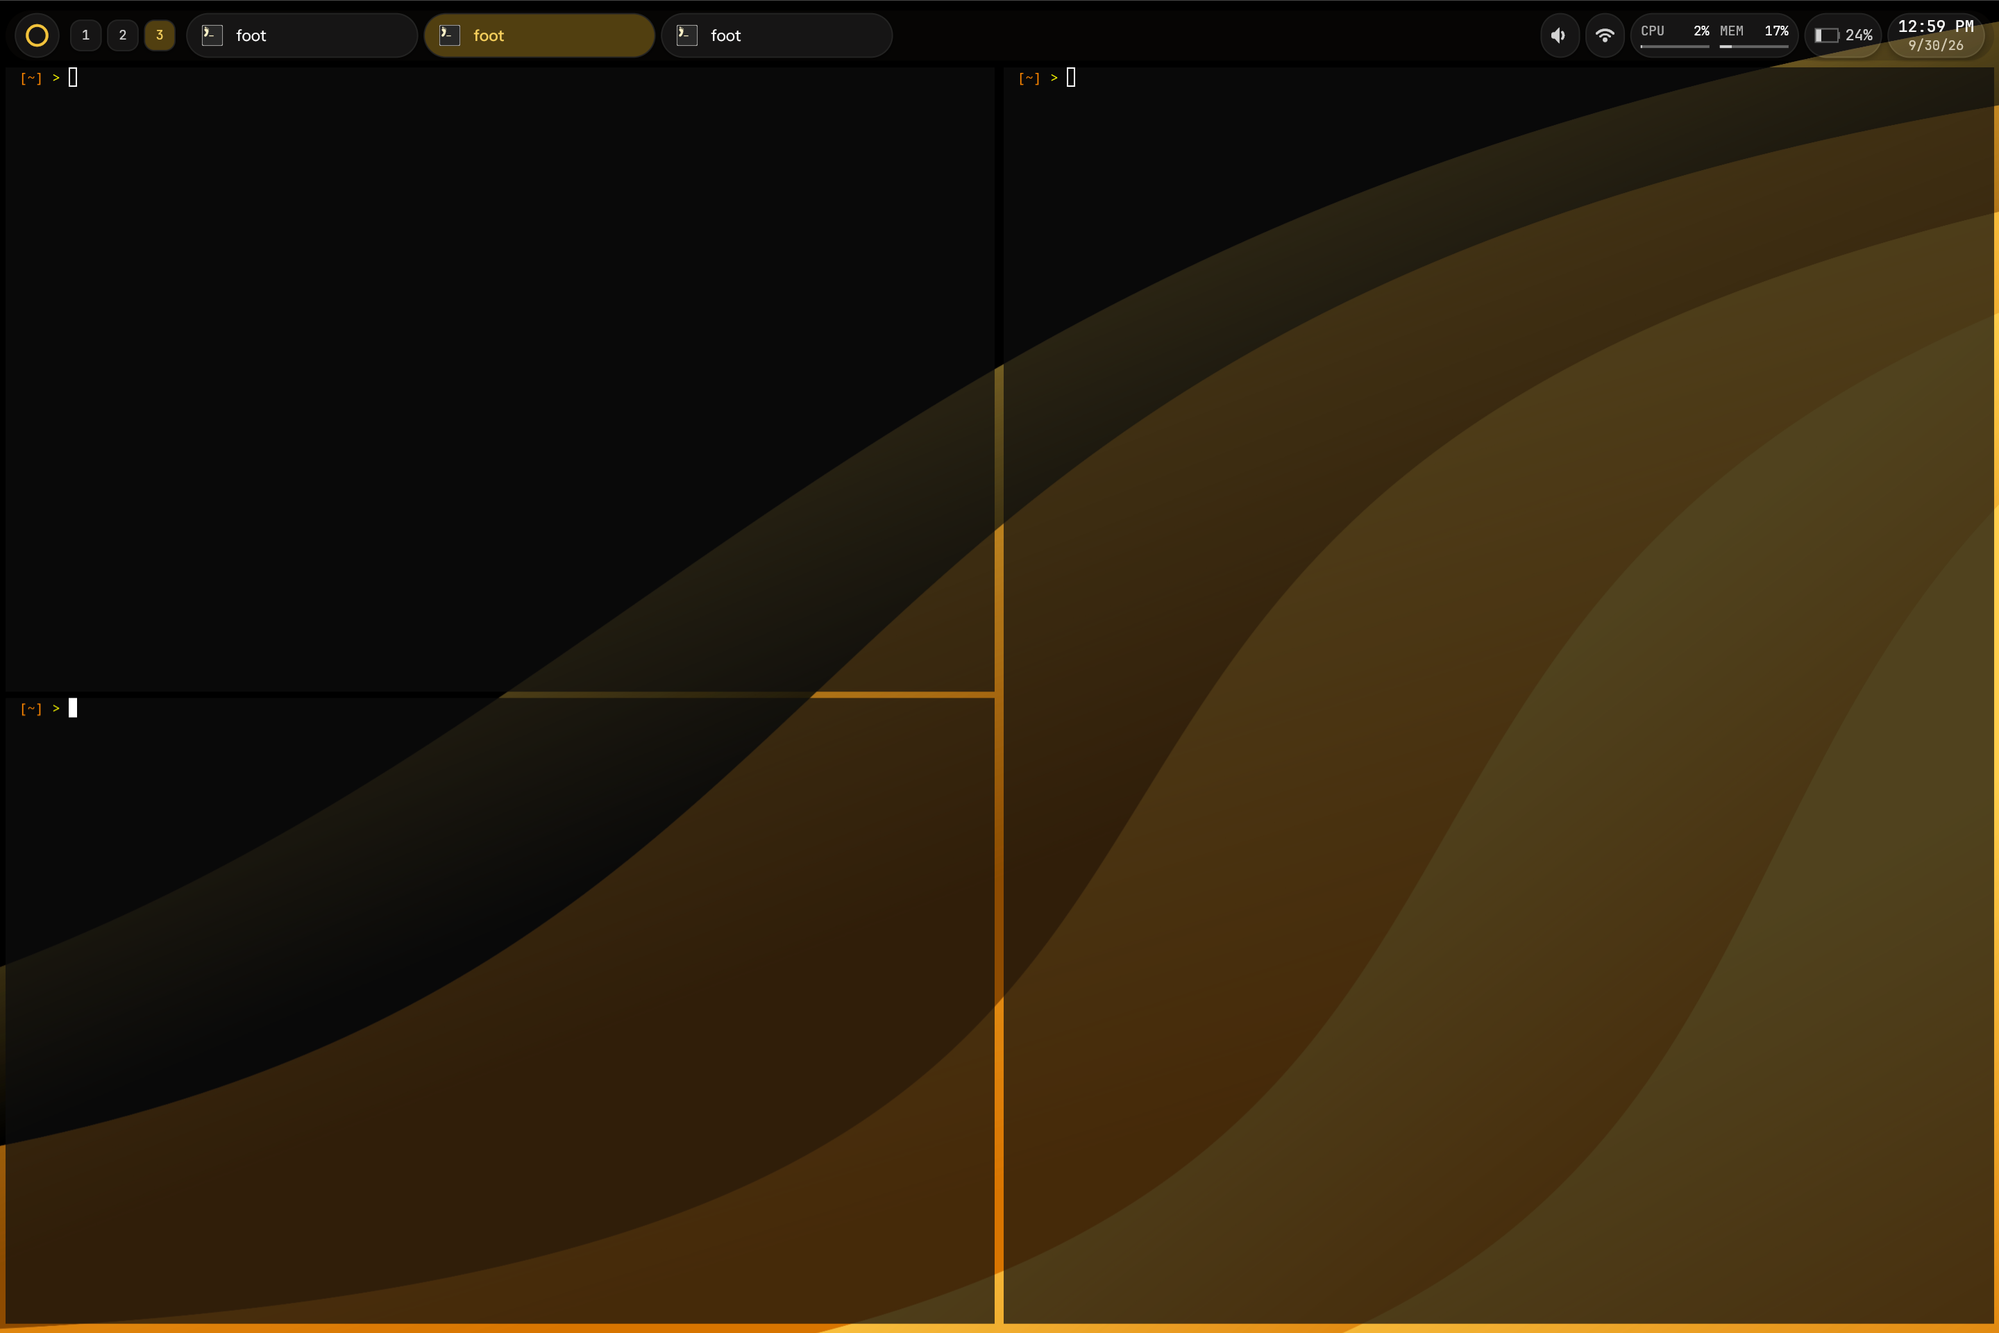
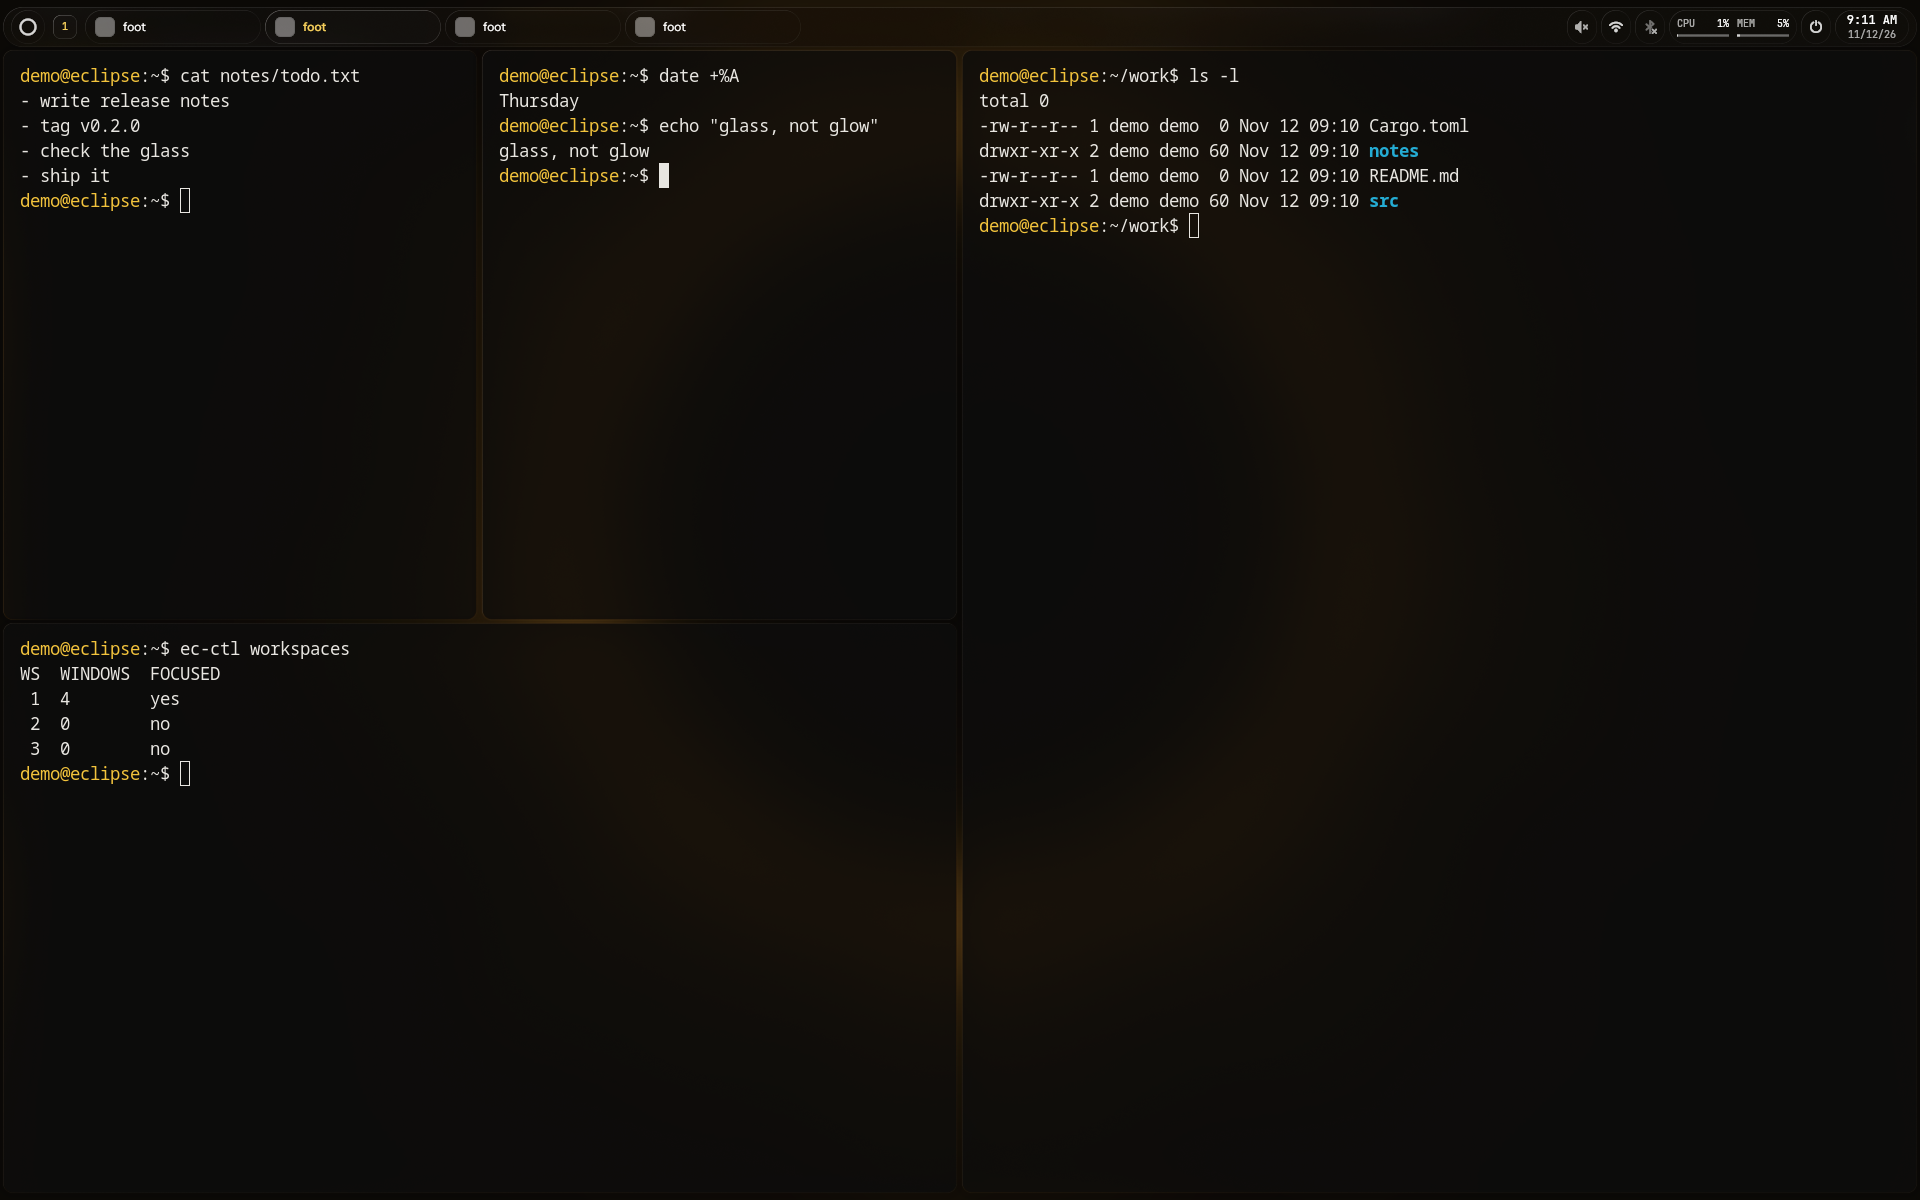
docs: README rewritten around the desktop, fresh screenshots

diff --git a/README.md b/README.md
@@ -13,76 +13,113 @@
 <table>
   <tr>
     <td rowspan="2" width="60%"><img src="docs/screenshots/hero.png" alt="Eclipse Settings on the EclipseOS desktop"></td>
-    <td width="40%"><img src="docs/screenshots/desktop.png" alt="The EclipseOS desktop and bar"></td>
+    <td width="40%"><img src="docs/screenshots/desktop.png" alt="The launcher over the EclipseOS desktop"></td>
   </tr>
   <tr>
     <td><img src="docs/screenshots/tiling.png" alt="Tiled terminals"></td>
   </tr>
 </table>
 
+<p align="center">
+  <img src="docs/screenshots/share-redaction.png" alt="A screen share with a password manager covered by police tape" width="70%"><br>
+  <sub>What a screen share sees: the password manager is covered at the source.</sub>
+</p>
+
 ## What is EclipseOS
 
-EclipseOS is an Arch-based operating system where the compositor, the desktop shell, the installer and the security model are designed together, as one thing. It is not a distro with a theme on top. At its heart is **Abyss**, a Wayland compositor written in Rust. The shell around it is written in Rust too.
+EclipseOS is a Linux desktop built on Arch. Its compositor, desktop, file manager and installer are designed together and look and behave as one thing. At the centre is **Abyss**, a Wayland compositor written in Rust. Everything you see around it is written in Rust too: the taskbar, launcher, notifications, Settings, the Fog file manager, the lock screen and the installer.
+
+It looks like liquid glass: dark by default with a gold accent, with translucent blurred layers, rounded corners, soft depth and fluid motion. It also keeps what is on your screen private when you don't want it seen.
 
 **Philosophy**
 
-- **Glass first.** Dark by default with a gold accent: translucent, blurred layers, rounded corners, soft depth, fluid motion.
-- **Keyboard first.** Tiling windows and workspaces, with gestures, touch and tablet as full citizens.
-- **Nothing ambient.** Every sensitive operation crosses a capability check, and the check fails closed.
-- **Your input is yours.** Keystrokes, clipboard and IME are never logged by content, not in logs and not in the audit trail.
+- **A whole OS, not a theme.** The compositor, desktop, file manager and installer are designed together, so the system feels like one thing from install to everyday use.
+- **Glass that you can read.** Dark by default with a gold accent. Glass that adapts to whatever is behind it, so text stays readable on any wallpaper.
+- **Work your way.** A classic desktop, tiling, or a mix of both. Keyboard, mouse, touch and tablet are all first-class.
+- **Private by default.** Nothing gets ambient access, and every sensitive operation fails closed. What's on your screen stays yours when you share it. Keystrokes, clipboard and IME are never logged.
+- **It stays up.** A bad update or a crashing feature never costs you your session.
 
-## Highlights
+## What's different
 
-- **A compositor written from scratch.** Abyss is Rust on Smithay with a single-threaded core, handle-based state and no locks on the hot path. It has booted on real KMS hardware with two outputs, and it passes the Wayland conformance suite (WLCS) in CI.
-- **Liquid-glass rendering.** Dual-Kawase blur, soft SDF shadows, rounded corners and animated focus, workspace and window transitions.
-- **Tiling that stays out of the way.** Radiant, dwindle and master layouts, workspaces, window rules, three-finger workspace swipes and touch/tablet support.
-- **Config you can't break.** One KDL file that hot-reloads and never takes the session down on a bad edit. The Settings app edits the same file in place.
-- **A complete desktop, not a parts bin.** The Hyperion bar, launcher with search, toasts and notification centre, policy viewer and secret prompt are all native and share one design system.
-- **Trusted UI that can't be spoofed.** Consent and confirmation prompts are drawn by the compositor above every app, never by a client. Screen capture is redacted fail-closed, and a visible indicator shows whenever something is capturing.
-- **A tamper-evident audit trail.** Grants are signed, and decisions go into an append-only, hash-chained journal you can verify with `ec-audit`.
-- **Agents as guests, not owners.** AI agents get their own input seats and a policy-checked protocol, so they never steal your focus and everything they do is attributable.
-- **Installs like an OS should.** A graphical installer with Minimal, Standard, Full and Agentic profiles, and updates through a signed `pacman` repository.
+Other desktops have some of this. EclipseOS was designed around it from the start.
 
-## Built on
+- **Adaptive glass.** Every glass surface (the taskbar, panes, window glass, titlebars) measures the backdrop behind it on the GPU, every frame, and shifts its own tint to keep the text on it readable. It darkens over a bright photo and lifts over a dark one. Nothing is read back to the CPU, and no app ever sees your screen to make that happen.
+- **Real liquid glass.** Beyond blur, there are three glass styles: `blur`, `frost`, and `glass`, which adds refraction, chromatic dispersion, a bevel and rim light. They're drawn by the compositor, so they're consistent everywhere and cost apps nothing.
+- **Glass for apps that don't support it.** Some apps, Firefox among them, always draw opaque windows. *Keyed glass* lets the compositor turn chosen colours in an app's frame into translucent glass, so it blends with the rest of the desktop. The Firefox add-on uses it. A Steam add-on that themes Steam's UI to match is a work in progress.
+- **A compositor-wide animation system.** Opening, closing and moving windows, switching workspaces, minimising, layers, focus, taskbar chips and toasts are all animated by the compositor. Pick a preset (`off`, `subtle`, `smooth`, `lively`), tune curves per event, or drop in GLSL transition shaders from an add-on. A closing window leaves a ghost that fades out after the app is already gone. Reduce-motion is respected everywhere.
+- **Radiant tiling.** Splits are weighted and can hold any number of windows, not just pairs. Drag a window and a ghost shows exactly where it will land, with a little hysteresis so it doesn't flicker between zones. Switching layouts and back loses nothing.
+- **Move windows from anywhere.** Hold Super and drag on the touchpad, or Alt-drag anywhere in a window, to move it without hunting for a titlebar.
+- **A taskbar with physics.** Chips slide on critically damped springs that can be interrupted mid-motion. Pin apps, rearrange widgets on a drag bar, or write your own widgets that run a command or stream its output. Prefer another bar? `components.bar` swaps in Waybar, Quickshell or none.
+- **Screenshots that look like your screen.** The built-in screenshot freezes the frame while you pick a region and renders through the compositor's own pipeline, so shots keep the blur, glass, rounding and shadows. They are redacted by the same rules as a screen share.
+- **Add-ons, not forks.** Extras are add-ons: a manifest plus host hooks that are off until you turn them on. The Firefox glass add-on is one. The Steam add-on is a work in progress, and Oracle Eyes (which brings the taskbar's eclipse eye to life) is optional and not shipped with the OS.
+- **Config that edits like a document.** Settings writes changes into your KDL file in place, byte for byte. Your comments, ordering and formatting survive every change made from the GUI, and [CONFIG.md](docs/CONFIG.md) is generated from the same schema, so the docs can't drift.
+- **Hybrid-GPU laptops handled properly.** Each GPU can drive its own screens, with a safe copy path by default and native compositing as an option. Displays are recognised by their EDID, and layouts are remembered per set of monitors.
+- **Privacy built into the compositor.** Screen shares are redacted at the source, and the capture indicator is drawn by the compositor so no app can hide it. More [below](#private-by-default).
 
-- **Spec first.** Two spec volumes and a set of [ADRs](docs/decisions) govern the code, and where they disagree it is treated as a bug.
-- **Hard invariants.** No ambient authority, a ratchet that can only tighten a decision, no allocation on the input and policy hot paths, and backends isolated behind one trait.
-- **A real gate.** `rustfmt`, `clippy -D warnings`, the full test suite, `cargo-deny` and WLCS conformance run on every PR, with a pinned toolchain and a pinned Smithay.
-- **Reviewed trust boundary.** The enforcement path, policy daemon and sandbox get line-by-line owner review.
+## The desktop
 
-**Status:** early. The installer and desktop work, but EclipseOS is not a daily driver yet. [STATUS.md](docs/STATUS.md) lists what is verified and what is still stubbed.
+- **Desktop or tiling, your choice.** In `de` mode you get a stacking desktop with titlebars, maximize, Quick Tile, snapping, desktop icons, Alt-Tab, an overview and hot corners. `wm` mode tiles with Radiant, dwindle and master layouts. `hybrid` sits between the two. You can switch at any time, and your windows are kept.
+- **Dark and light, derived.** Themes are derived from a few seed colours, and contrast is checked automatically. Dark and light are both built in, and the desktop can follow the time of day.
+- **A complete desktop, not a parts bin.** The taskbar, launcher with search, notification toasts and history, control centre, Settings, Fog file manager and screen locker share one design system.
+- **File dialogs that match.** Apps that ask the desktop portal for a file get Fog's picker.
+- **Settings you can't break.** Everything lives in one KDL file that hot-reloads. A bad edit is reported and never takes the session down. The Settings app edits the same file in place.
+- **Fits the apps you already use.** Optional add-ons give Firefox and Steam the same glass. Multi-monitor and hybrid-GPU laptops are handled, and so are touchpads, touchscreens and tablets.
+
+## Private by default
+
+- **Screen sharing hides what it should.** The compositor redacts at the source. Password managers and marked-secret windows are covered with police tape in shares, recordings and screenshots. Notification toasts are redacted, held back or sent straight to history. Alt-Tab and overview thumbnails never leave the compositor, and a window holding something sensitive is never scanned out directly, so no frame slips past redaction.
+- **You always know when you're being captured.** While anything captures the screen, the eclipse eye on the taskbar shows a moving red pupil. The compositor draws it, so an app can't hide it or fake it.
+- **Passwords only go where they belong.** The login screen runs inside Abyss in a locked-down kiosk mode. Admin (polkit) password prompts are drawn by the compositor and sent straight to the root helper, so the desktop-side agent never sees your password.
+- **Only approved apps can capture.** Screen capture, input methods, virtual pointers and the clipboard manager admit only the programs you list, by their full path. Everyone else is refused.
+- **A real lock screen.** `ec-lock` holds the session until you unlock it. If it crashes, it is relaunched and the session stays locked.
+- **Prompts no app can fake.** Confirmations are drawn by the compositor above every window, never by a client.
+
+## Built to stay up
+
+- **Updates you can walk back.** The previous Abyss build is kept. If a new one crashes at startup, the session falls back to the old one, and "Abyss (previous)" is on the login screen.
+- **One broken feature doesn't take the desktop down.** A crash in an optional feature turns that feature off for the session, and you keep working.
+- **A gate on every change.** Every pull request runs `rustfmt`, `clippy -D warnings`, the full test suite, `cargo-deny` and the Wayland conformance suite (WLCS), with a pinned toolchain.
+- **Spec first.** Two spec volumes and a set of [ADRs](docs/decisions) govern the code. Where code and spec disagree, that is treated as a bug. Changes to the security-critical path get a line-by-line review.
+
+## Agents (in progress)
+
+AI agents are planned as guests on your desktop, not owners of it. That work is **not finished**, and the focus right now is a good, well-rounded OS. The foundations already exist in the tree:
+
+- Agents get their own input seats, so they never steal your focus.
+- Every action passes a policy check that fails closed.
+- Decisions go into a hash-chained audit log you can verify with `ec-audit`.
+
+The agent stack ships separately, as the optional `eclipseos-agents` package, and nothing else on the system depends on it. It is experimental until that work is complete.
+
+## Status
+
+**0.2.0, early.** The author uses it as their everyday desktop, but expect rough edges. [STATUS.md](docs/STATUS.md) records what is built and verified, and [KNOWNBUGS.md](docs/KNOWNBUGS.md) lists what isn't working yet.
 
 ## Install
 
 **You will need:** a 64-bit UEFI PC, a USB stick (the ISO is a few GB), and an internet connection during install. Turn Secure Boot off; it isn't supported yet. The installer erases the disk you pick, so back up first.
 
-1. **Download** the latest ISO from the [Releases page](https://github.com/chasebrowndev/EclipseOS/releases) (`eclipseos-YYYY.MM.DD-x86_64.iso`, plus its `.sig` and sha256).
-   *(Release not published yet — this link goes live with the first ISO.)*
-2. **Verify** it:
-   ```
-   sha256sum -c eclipseos-*.iso.sha256
-   ```
-3. **Write it to a USB stick.** Replace `/dev/sdX` with your stick (check with `lsblk`); everything on it is erased:
+1. **Get the ISO.** Prebuilt ISOs are not published yet. Build one with [D-03](docs/design/D-03-installation-media.md) and [BUILDING.md](docs/BUILDING.md). When they are published, they will be on the [Releases page](https://github.com/chasebrowndev/EclipseOS/releases) as `eclipseos-YYYY.MM.DD-x86_64.iso`, with a `.sig` and a sha256 to check (`sha256sum -c eclipseos-*.iso.sha256`).
+2. **Write it to a USB stick.** Replace `/dev/sdX` with your stick (check with `lsblk`). Everything on it is erased:
    ```
    sudo dd if=eclipseos-*.iso of=/dev/sdX bs=4M status=progress oflag=sync
    ```
    On Windows or macOS, use [balenaEtcher](https://etcher.balena.io/) or Rufus (DD mode).
-4. **Boot from it.** Restart and open your firmware's boot menu (usually F12, F10, F2 or Esc) and choose the USB stick.
-5. **The installer starts by itself.** It is graphical and walks you through the rest.
+3. **Boot from it.** Restart, open your firmware's boot menu (usually F12, F10, F2 or Esc), and choose the USB stick.
+4. **Follow the installer.** It is graphical. Pick a profile (Minimal, Standard, Full or Agentic) and it walks you through the rest.
 
-Once installed, updates arrive through the signed EclipseOS package repository with `pacman`.
-
-Want to build the ISO yourself? See [D-03](docs/design/D-03-installation-media.md) and [BUILDING.md](docs/BUILDING.md).
+Once installed, updates come from the signed EclipseOS package repository with `pacman -Syu`.
 
 ## Learn more
 
 | | |
 |---|---|
 | [Abyss compositor](abyss/README.md) | the window manager at the heart of EclipseOS |
-| [STATUS.md](docs/STATUS.md) | what is built, stubbed and verified |
-| [ARCHITECTURE.md](docs/ARCHITECTURE.md) | how the pieces fit together |
-| [CONFIG.md](docs/CONFIG.md) | configuring the desktop |
+| [CONFIG.md](docs/CONFIG.md) | every setting, what it does and its default |
 | [STYLE.md](docs/STYLE.md) | the visual language |
+| [ARCHITECTURE.md](docs/ARCHITECTURE.md) | how the pieces fit together |
+| [STATUS.md](docs/STATUS.md) | what is built and verified |
+| [SECURITY.md](SECURITY.md) | the security model and how to report a vulnerability |
 
 ## Licence
 
